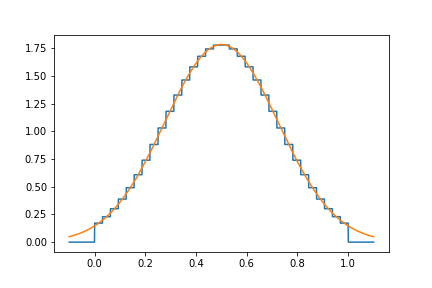
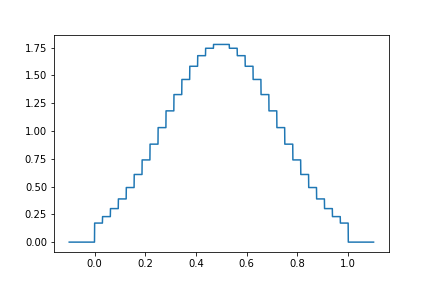
add figures and fix misc. paragraphs

diff --git a/master_thesis/tex/MW_basis.tex b/master_thesis/tex/MW_basis.tex
@@ -241,10 +241,40 @@ As an example, lets approximate the function
 $f(x) = \frac{10}{\sqrt{\pi}}e^{-100(x - 0.5)^2}$ in $L^2(\Real)$
 with Haar basis up to scale $5$ using \ref{eq:projectftohaar}. Gives us the
 following figures.
-%put the plots here
+
+\begin{figure}[h!]
+  \centering
+  \begin{subfigure}[b]{0.49\linewidth}
+    \includegraphics[width=\linewidth]{img/scale1.png}
+    \caption{Haar basis projection to the 1st scale}
+  \end{subfigure}
+  \begin{subfigure}[b]{0.49\linewidth}
+    \includegraphics[width=\linewidth]{img/scale2.png}
+    \caption{Haar basis projection to the 2nd scale}
+  \end{subfigure}
+  \begin{subfigure}[b]{0.49\linewidth}
+    \includegraphics[width=\linewidth]{img/scale3.png}
+    \caption{Haar basis projection to the 3rd scale}
+  \end{subfigure}
+  \begin{subfigure}[b]{0.49\linewidth}
+    \includegraphics[width=\linewidth]{img/scale4.png}
+    \caption{Haar basis projection to the 4th scale}
+  \end{subfigure}
+  \begin{subfigure}[b]{0.49\linewidth}
+    \includegraphics[width=\linewidth]{img/scale5.png}
+    \caption{Haar basis projection to the 5th scale}
+  \end{subfigure}
+  \begin{subfigure}[b]{0.49\linewidth}
+    \includegraphics[width=\linewidth]{img/gaussian.png}
+    \caption{Analytical plot of $f(x)$}
+  \end{subfigure}
+  \caption{Projecting Gaussian function $f(x) = \frac{10}{\sqrt{\pi}}e^{-100(x - 0.5)^2}$ with
+  Haar basis up to scale 5}
+  \label{fig:watpots}
+\end{figure}
+
 
 \section{Multiwavelet \ac{MRA}}
-%weakness of wavelet that might be fixed with multiwavelet
 \subsection{Constructing the basis functions in one dimension}
 Following the same basics as in the Haar basis from the previous section we can
 define a hierarchical set of multi-resolution spaces $V^j_l$ where \cite{Frediani:2013}:
@@ -573,6 +603,45 @@ d r^{\prime}
 which is a simplified version of the Poisson kernel shown in \cite{Frediani:2013}.
 The Poisson operator can be projected as in outlined in section \ref{NSformsec} above
 
+\section{Hartree-Fock method in multiwavelet basis}
+When performing the \ac{SCF} mentioned in chapter \ref{chap:Quantum_chemistry} one
+computes the sets of One-orbital \eifuncs  from Equation \ref{eq:diagFockequations}.
+Let us expand that eaquation into its single kinetic and potential energy contributions:
+\begin{equation}\label{eq:expandeddiagFockequations}
+  \left(\hat{T} + \hat{V_n} + \hat{J} - \hat{K} + \hat{V}_{xc}\right)\phi_i = \epsilon_i\phi_i
+\end{equation}
+where $\hat{V}_{xc}$ is the exchange-correlation potential, which is a correction of the Hartree-Fock
+approximation where we assumed that only one Slater determinant was needed for
+constructing the wavefunction. We will not dwell on it much more and
+assume it is known. Here we drop the $\prime$ as we are only working with a diagonalized Fock matrix
+in the following definitions.
+
+The kinetic energy opertaor $\hat{T}$ from Equation \ref{eq:expandeddiagFockequations}
+consists of a double derivative. We saw from the previous section on Operators
+that representing a derivative operator on \ac{MW} basis is not a simple matter.
+In order to solve this we need to represent the derivative operator in a slightly
+different manner.
+
+First let us rearrange Equation \ref{eq:expandeddiagFockequations} and multiply each
+side with operator $\hat{G}_\mu$ which is much easier to project to the \ac{MW}
+basis
+\begin{align}
+  \hat{G}_\mu &=\left(\nabla^2 + \mu^2\right)^{-1} = \frac{e^{-\mu\rvec}}{4\pi\rvec} \\
+  \mu &\defeq \sqrt{-2\epsilon_i}
+\end{align}
+
+\begin{align}
+  \begin{split}
+    \hat{G}_\mu\left(\hat{T} - \epsilon_i\right)\phi_i &= -\hat{G}_\mu\left(\hat{V_n} + \hat{J} - \hat{K} + \hat{V}_{xc}\right)\phi_i\\
+    \left(\nabla^2 + \mu^2\right)^{-1}\left(\frac{1}{2}\nabla^2 - \epsilon_i\right)\phi_i &= -\left(\nabla^2 + \mu^2\right)^{-1}\left(\hat{V_n} + \hat{J} - \hat{K} + \hat{V}_{xc}\right)\phi_i\\
+    \frac{1}{2}\phi_i &= -\hat{G}_\mu\left(\hat{V_n} + \hat{J} - \hat{K} + \hat{V}_{xc}\right)\phi_i\\
+    \phi_i &= -2\hat{G}_\mu\left(\hat{V_n} + \hat{J} - \hat{K} + \hat{V}_{xc}\right)\phi_i
+  \end{split}
+\end{align}
+Using the last equation above one can perform a \ac{SCF} procedure by iteratively applying
+$-2\hat{G}_\mu\left(\hat{V_n} + \hat{J} - \hat{K} + \hat{V}_{xc}\right)$ on an
+unconverged orbital to attain a new orbital. This process is then repeated until
+the change between the orbitals is below a predetermined threshold.
 
 \input{acronyms.tex}
 \biblio

diff --git a/master_thesis/tex/tests_results_discussion.tex b/master_thesis/tex/tests_results_discussion.tex
@@ -187,7 +187,7 @@ between them as
 \end{equation}
 The operation above \ref{eq:reldiff} was applied to all the values for all the
 substrate molecules, giving the following figures \ref{fig:watreldiff},
-\ref{fig:nopreldiff} % figures coming soon , and \ref{fig:cyanreldiff}.
+\ref{fig:nopreldiff}, and \ref{fig:cyanreldiff}.
 
 \begin{figure}[h!]
   \centering
@@ -221,11 +221,30 @@ substrate molecules, giving the following figures \ref{fig:watreldiff},
   \label{fig:nopreldiff}
 \end{figure}
 
+\begin{figure}[h!]
+  \centering
+  \begin{subfigure}[b]{\linewidth}
+    \includegraphics[width=\linewidth]{img/cyanreldiff.png}
+  \end{subfigure}
+  \begin{subfigure}[b]{\linewidth}
+    \includegraphics[width=\linewidth]{img/cyanaugreldiff.png}
+  \end{subfigure}
+  \begin{subfigure}[b]{\linewidth}
+    \includegraphics[width=\linewidth]{img/cyandaugreldiff.png}
+  \end{subfigure}
+  \caption{Relative difference between the Reaction field energy of \ce{CN^-} in a water solution calculated with MrChem
+  and with different basis sets in Gaussian}
+  \label{fig:cyanreldiff}
+\end{figure}
+
 
 We have observed that when, in Mrchem,  using a slightly bigger cavity than
 Gaussian would give us a better difference between the Mrchem and Gaussian values.
-In the following figures we compared a calculation in gaussian with a given radius $r$
+In the following figures %\ref{fig:watreldiff02} \ref{fig:nopreldiff02} \ref{fig:cyanreldiff02}
+we compared a calculation in gaussian with a given radius $r$
 against an Mrchem calculation with radius $r + 0.2$Bohr for all the tests
+
+
 
 We ran \ac{ABC} calcualtions in the same manner as above, here are the results for
 each of the substrates in tables %numerate them

diff --git a/master_thesis/tex/Quantum_chemistry.tex b/master_thesis/tex/Quantum_chemistry.tex
@@ -458,13 +458,13 @@ substitute the Fock operator $\hat{F}$ into equation \ref{eq:dESD} as \cite{Jens
 We substituate \ref{eq:dEfock} into \ref{eq:dESD} and use properties of complex conjugates
 to manipulate the equation as shown in \cite{Jensen:2017} to give us the Hartree-fock
 equations
-\begin{equation}
+\begin{equation}\label{eq:Fockequations}
 \hat{F}\phi_i = \sumdef[n]{j}\lambda_{ij}\phi_j
 \end{equation}
 where we can construct a $n\times n$ matrix out of these sums called the Fock matrix.
 We then diagonalize the Fock matrix and get the following set of \eival equations
-\begin{equation}
-\hat{F}\phi_i = epsilon_i\phi_i
+\begin{equation}\label{eq:diagFockequations}
+\hat{F}\phi_i^{\prime} = \epsilon_i\phi_i^{\prime}
 \end{equation}
 where the $\epsilon_i$ is the energy of each orbital. When diagonalizing the matrix the
 orbitals get changed slightly, creating new orbitals. We denote these new orbitals with a $^\prime$
@@ -484,6 +484,11 @@ these interactions from the total orbital energy. This gives the total energy $E
 \begin{equation}
   E = \sumdef[n]{i}\epsilon_i - \frac{1}{2}\sumdef[n]{ij}\left(\hat{J}_{ij} - \hat{K}_{ij}\right)
 \end{equation}
+
+An important point ot note is that at the start of this section we assummed our
+wavefunction to consist of a single determinant. This is part of the Hartree-Fock
+approximation, where we only care about the lowst energy level of the system, and
+we assume that a single Slater determinant is enough to describe it.
 
 \subsection{Density Functional Theory}
 The method outlined above employed an iterative procedure to calculate the coefficients

diff --git a/master_thesis/tex/Solvation.tex b/master_thesis/tex/Solvation.tex
@@ -266,10 +266,8 @@ function epsilon with the cavity as a boundary condition \cite{Tomasi:2005ipa, T
   1 & \text{for}\ \rvec \notin C
 \end{cases}
 \end{equation}
-Where $C$ is the cavity. This definition brings forth a discontinuity on the
-dielectric function. This makes solving the Poisson equation more difficult as
-the gradient of the dielectric function is not defined at the surface of the
-cavity. One way to bypass this problem is to partition the volume of the system
+Where $C$ is the cavity. We then solve the polarization problem at the surface
+of the cavity. We define this problem by partitioning the volume of the system
 into two parts, one inside the cavity and one outside the cavity \cite{Tomasi:1994wt}.
 Another assumption that is made is to say that we have an ideal cavity
 \cite{Cramer:2004, Tomasi:1994wt}. In an ideal cavity, the electrostatic charge
